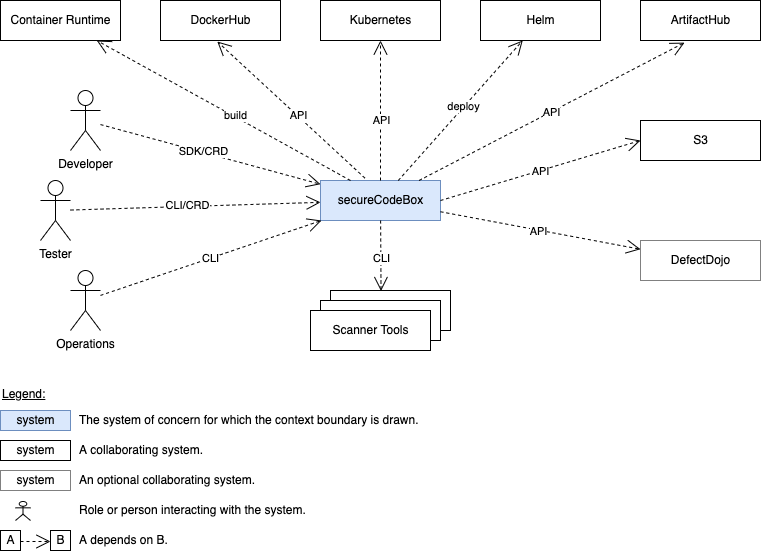
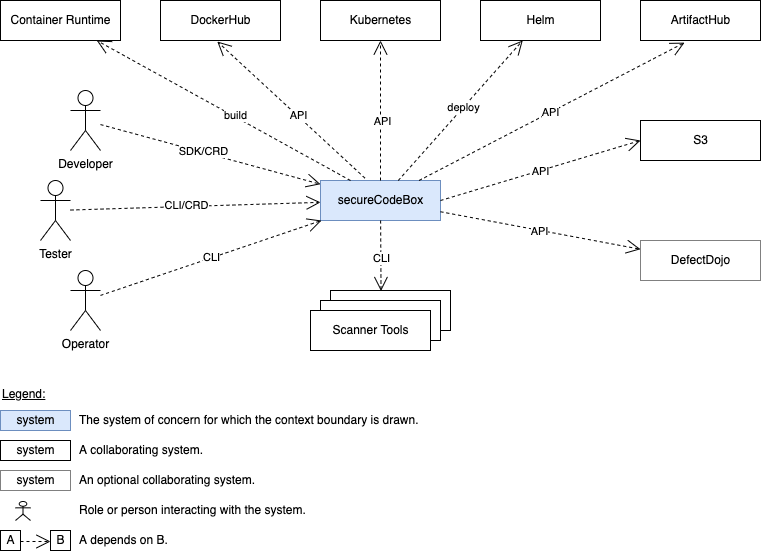
Refine glossary entries for enginge and operator

diff --git a/docs/architecture/03_system_scope_and_context.md b/docs/architecture/03_system_scope_and_context.md
@@ -40,11 +40,11 @@ The following table describes the systems _secureCodeBox_ interacts. The descrip
 
 The following table describes the roles interacting with _secureCodeBox_.
 
-| Role       | Description                                                                                                                                                            |
-|:-----------|:-----------------------------------------------------------------------------------------------------------------------------------------------------------------------|
-| Operations | The role which operates the _secureCodeBox_ installation. (We use the term "operations" instead of operator to be distinguishable from the _secureCodeBox_ _operator_. |
-| Tester     | The role which utilizes _secureCodeBox_ to perform security tests.                                                                                                     |
-| Developer  | The role which develops the _secureCodeBox_.                                                                                                                           |
+| Role      | Description                                                                                                                                         |
+|:----------|:----------------------------------------------------------------------------------------------------------------------------------------------------|
+| Operator  | The role which operates the _secureCodeBox_ installation. (Do not confuse with Kubernetes _operator_ pattern, which we implement for the _engine_.) |
+| Tester    | The role which utilizes _secureCodeBox_ to perform security tests.                                                                                  |
+| Developer | The role which develops the _secureCodeBox_.                                                                                                        |
 
 [artifact-hub]: https://artifacthub.io/docs/
 [defectdojo]:   https://www.defectdojo.org/

diff --git a/docs/architecture/13_glossary.md b/docs/architecture/13_glossary.md
@@ -19,13 +19,13 @@ _Hook_: A _hook_ is a concept in _secureCodeBox_ to give the opportunity to reac
 
 _Job_: A Job creates one or more Pods and will continue to retry execution of the Pods until a specified number of them successfully terminate. (see [official Kubernetes documentation][k82-job-doc].)
 
-_Engine_: TODO #21
+_Engine_: This is the central component of the _secureCodeBox_ which controls the business logic. It implements the _operator_ pattern. 
 
 _Finding_: This is one single possible security issue found by a _scanner_ which is stored as [well-defined format](/docs/api/finding).
 
 _Lurker_: This _sidecar_ is a generic component responsible to "lurk" the results spit out by _scanners_ and stores it into the _storage_ for further processing by the parser. 
 
-_Operator_: This is the central component of the _secureCodeBox_ which controls the business logic. The [operator pattern][k82-operator] is also a common DevOps pattern in Kubernetes.
+_Operator_: The [operator pattern][k82-operator] is a common pattern in Kubernetes to extend Kubernetes.
 
 _Parser_: This _job_ is a _scanner_ specific component which reads the raw stored findings from the _lurker_ and transforms them into the [well defined format](/docs/api/finding) for _secureCodeBox_ findings. Each scanner needs its own parser implementation. 
 
